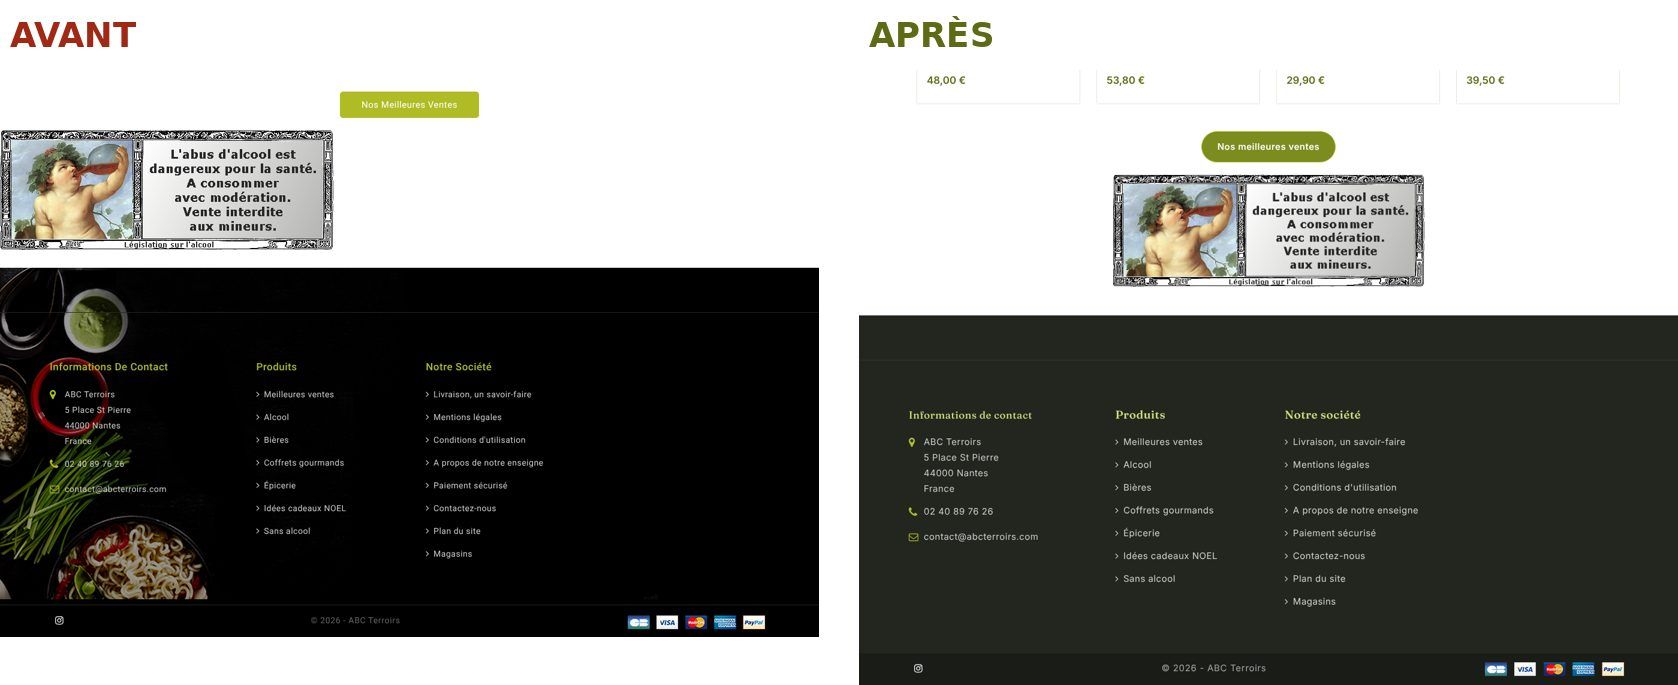
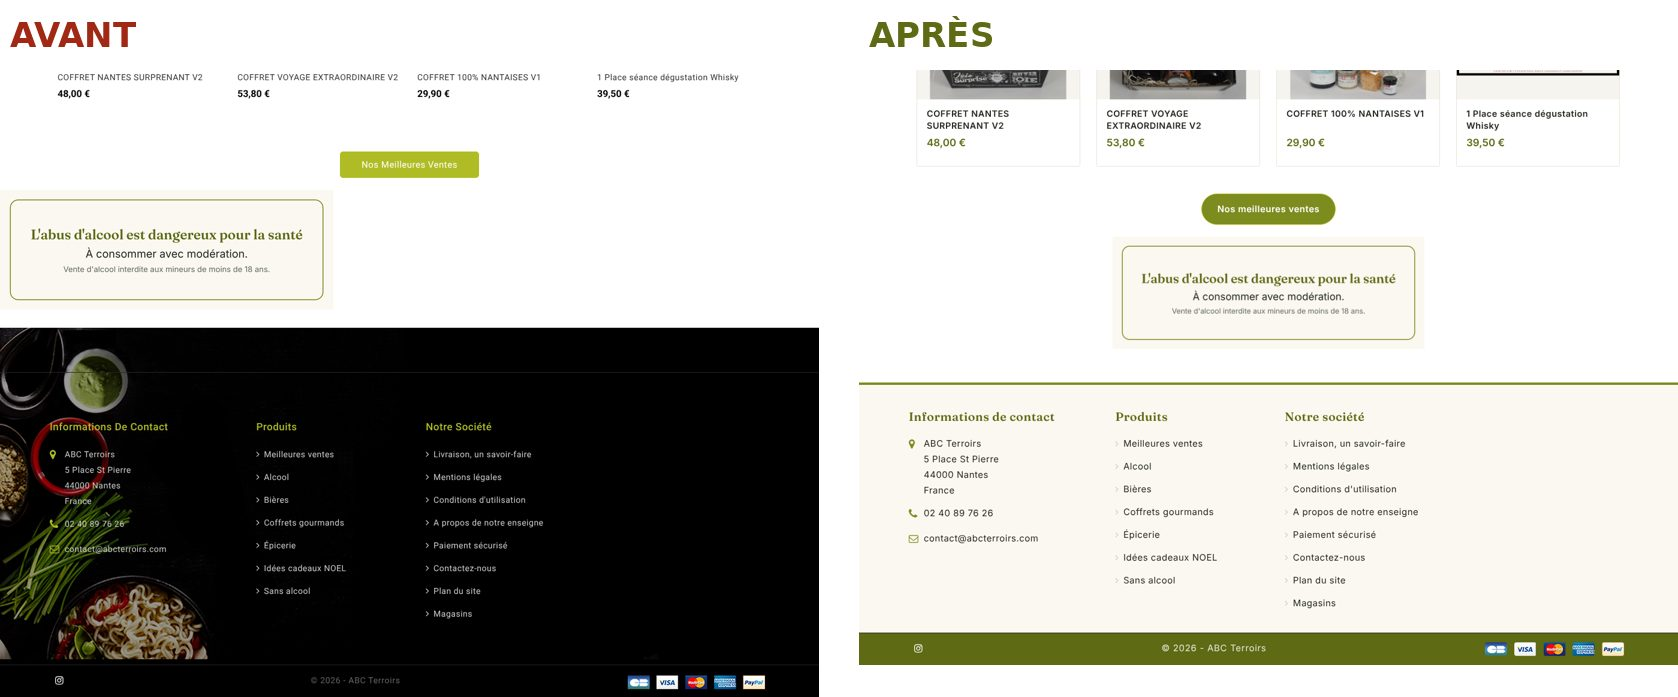
ABC Terroirs : design v3, pied de page et bandeau aux couleurs de la boutique
Pied de page crème/olive à la place du noir, bandeau « Attention »
en dégradé olive à la place de l'image de démo du thème, touches
modernes (ombre d'en-tête, soulignement animé, fonds harmonisés).

Claude-Session: https://claude.ai/code/session_01P1wrBz23fxcbpQLqqeoHW8

diff --git a/abc-terroirs/design/custom-abc.css b/abc-terroirs/design/custom-abc.css
@@ -89,7 +89,12 @@ h1, h2, .h1, .h2, .products-section-title, .block_title, .productpage_title,
 #cztestimonialcmsblock { padding-top: 24px !important; }
 
 /* --- Accueil : bandeau « Attention, magasins dangereux… » ---------------- */
-#cztestimonialcmsblock .parallax { border-radius: var(--abc-radius); overflow: hidden; }
+#cztestimonialcmsblock .parallax {
+  border-radius: var(--abc-radius);
+  overflow: hidden;
+  background: linear-gradient(120deg, var(--abc-olive-dark) 0%, var(--abc-olive) 100%) !important;  /* remplace l'image de démo du thème */
+  padding: 38px 24px !important;
+}
 #cztestimonialcmsblock .testimonial_container h2,
 #cztestimonialcmsblock .testimonial_container h2 span,
 #cztestimonialcmsblock .testimonial_container h2 strong {
@@ -99,7 +104,8 @@ h1, h2, .h1, .h2, .products-section-title, .block_title, .productpage_title,
   font-weight: 600 !important;
   text-transform: none !important;
   font-size: clamp(22px, 3vw, 34px) !important;
-  text-shadow: 0 2px 12px rgba(0,0,0,.45);
+  text-shadow: none;
+  margin: 0 !important;
 }
 #cztestimonialcmsblock .testimonial_container h2 span { font-size: inherit !important; }
 
@@ -197,24 +203,54 @@ h1, h2, .h1, .h2, .products-section-title, .block_title, .productpage_title,
 /* --- Mention alcool (bannière) ------------------------------------------- */
 .banner img.img-fluid, a.banner img { margin: 24px auto; display: block; max-width: 520px; }
 
-/* --- Pied de page -------------------------------------------------------- */
+/* --- Pied de page : crème et olive (remplace la photo de démo sur fond noir) */
 #footer {
-  background: var(--abc-ink) !important;   /* remplace la photo de nouilles du thème */
-  margin-top: 48px;
+  background: var(--abc-cream) !important;
+  border-top: 4px solid var(--abc-olive);
+  margin-top: 56px;
 }
-#footer .footer-before { border-bottom: 1px solid rgba(255,255,255,.08); }
-#footer h3, #footer .h3, #footer .block-contact-title, #footer .block-contact .block-contact-title, #footer .text-uppercase.block-contact-title {
-  color: #cfdc7a !important;
+#footer .footer-before { display: none; }
+#footer .footer-container { padding-top: 40px !important; padding-bottom: 24px; }
+#footer #block-contact_list, #footer #block-contact_list li, #footer #block-contact_list span,
+#footer #block-contact_list a, #footer .block-contact .contact-info, #footer .block-contact div { color: var(--abc-ink) !important; opacity: 1 !important; }
+#footer h3, #footer .h3, #footer .block-contact-title, #footer .block-contact .block-contact-title,
+#footer .text-uppercase.block-contact-title, #footer h3.block-contact-title a {
+  color: var(--abc-olive-dark) !important;
   font-family: Fraunces, Georgia, serif !important;
   text-transform: none !important;
-  font-size: 19px !important;
+  font-size: 20px !important;
   font-weight: 600 !important;
 }
-#footer .footer-container .block-contact h3, #footer .footer-container h3.block-contact-title, #footer h3.block-contact-title a { color: #cfdc7a !important; font-family: Fraunces, Georgia, serif !important; text-transform: none !important; }
-#footer a, #footer li, #footer .block-contact { color: rgba(255,255,255,.78) !important; }
-#footer a:hover { color: #fff !important; }
-#footer .footer-after { background: rgba(0,0,0,.25); }
-#footer .copyright, #footer .copyright a { color: rgba(255,255,255,.6) !important; }
+#footer a, #footer li, #footer .block-contact, #footer .block-contact a { color: var(--abc-ink) !important; }
+#footer li a { transition: color .2s, padding-left .2s; }
+#footer li a:hover { color: var(--abc-olive) !important; padding-left: 4px; }
+#footer .block-contact i, #footer .material-icons { color: var(--abc-olive) !important; }
+#footer .footer-after { background: var(--abc-olive-dark) !important; }
+#footer .footer-after, #footer .copyright, #footer .copyright a, #footer .block-social a { color: rgba(255,255,255,.85) !important; }
+#footer .payement_logo_block img { border-radius: 4px; }
+
+/* --- Touches modernes --------------------------------------------------- */
+html { scroll-behavior: smooth; }
+::selection { background: var(--abc-olive-soft); }
+#header { box-shadow: 0 2px 18px rgba(35,38,31,.06); position: relative; z-index: 20; }
+#header .header-top { border-bottom: 0 !important; }
+/* menu : soulignement animé au survol */
+#top-menu > li > a { position: relative; }
+#top-menu > li > a::after {
+  content: ""; position: absolute; left: 20px; right: 20px; bottom: 8px; height: 2px;
+  background: var(--abc-olive); transform: scaleX(0); transform-origin: left; transition: transform .25s;
+}
+#top-menu > li > a:hover::after { transform: scaleX(1); }
+/* titres de sections : petit trait olive */
+.products-section-title::after, .bestseller-products .h1::after, .crosssell-products .h1::after {
+  content: ""; display: block; width: 48px; height: 3px; border-radius: 3px; background: var(--abc-olive); margin-top: 10px;
+}
+/* photos produits : fond harmonisé (les photos à fond gris/blanc se fondent dans la carte) */
+.product-miniature .thumbnail-container, .product-miniature .product-thumbnail { background: #f6f4ee !important; }
+.product-miniature .product-thumbnail img { mix-blend-mode: multiply; }
+/* champs de formulaire arrondis */
+input.form-control, select.form-control, textarea.form-control { border-radius: 10px !important; }
+.input-group .form-control, .bootstrap-touchspin input { border-radius: 10px 0 0 10px !important; }
 
 /* --- Mobile -------------------------------------------------------------- */
 @media (max-width: 767px) {

diff --git a/abc-terroirs/design/README.md b/abc-terroirs/design/README.md
@@ -10,12 +10,13 @@ Les comparaisons avant/après (`comparaison-*.jpg`) ont été faites sur le **vr
 - **Couleurs** : un vert olive plus profond et des fonds crème, à la place du vert anis et du gris.
 - **Boutons** arrondis, en olive.
 - **En-tête** plus aéré, barre de recherche arrondie, menu plus lisible.
-- **Bandeau « Attention, magasins dangereux… »** : grand titre blanc, sans le surlignage blanc parasite.
+- **Bandeau « Attention, magasins dangereux… »** : fond dégradé vert olive à la place de l'image de démonstration du thème (des épices sur fond noir), grand titre blanc, sans le surlignage blanc parasite.
 - **Texte de présentation** de l'accueil mis en valeur dans un encadré crème.
 - **Cartes produits** encadrées et arrondies, avec un léger effet au survol. Les noms ne sont plus coupés sur mobile (« COFFRET NAN… »).
 - **Fiche produit** : prix mis en avant, encadrés Réassurance en crème.
 - **Pages Histoire, Nos boutiques, Demande de devis…** : l'encadré « Désolé pour le dérangement » est masqué.
-- **Pied de page** : fond uni sombre à la place de la photo de nouilles du thème, titres et liens lisibles.
+- **Pied de page aux couleurs de la boutique** : fond crème avec un liseré olive, titres en vert olive, et une barre olive tout en bas. Il remplace le fond noir et la photo de nouilles du thème.
+- **Touches modernes** : légère ombre sous l'en-tête, soulignement animé du menu au survol, petit trait olive sous les titres de sections, photos produits sur un fond harmonisé, champs de formulaire arrondis.
 
 ## Mise en ligne (10 minutes, compte OVH)
 
